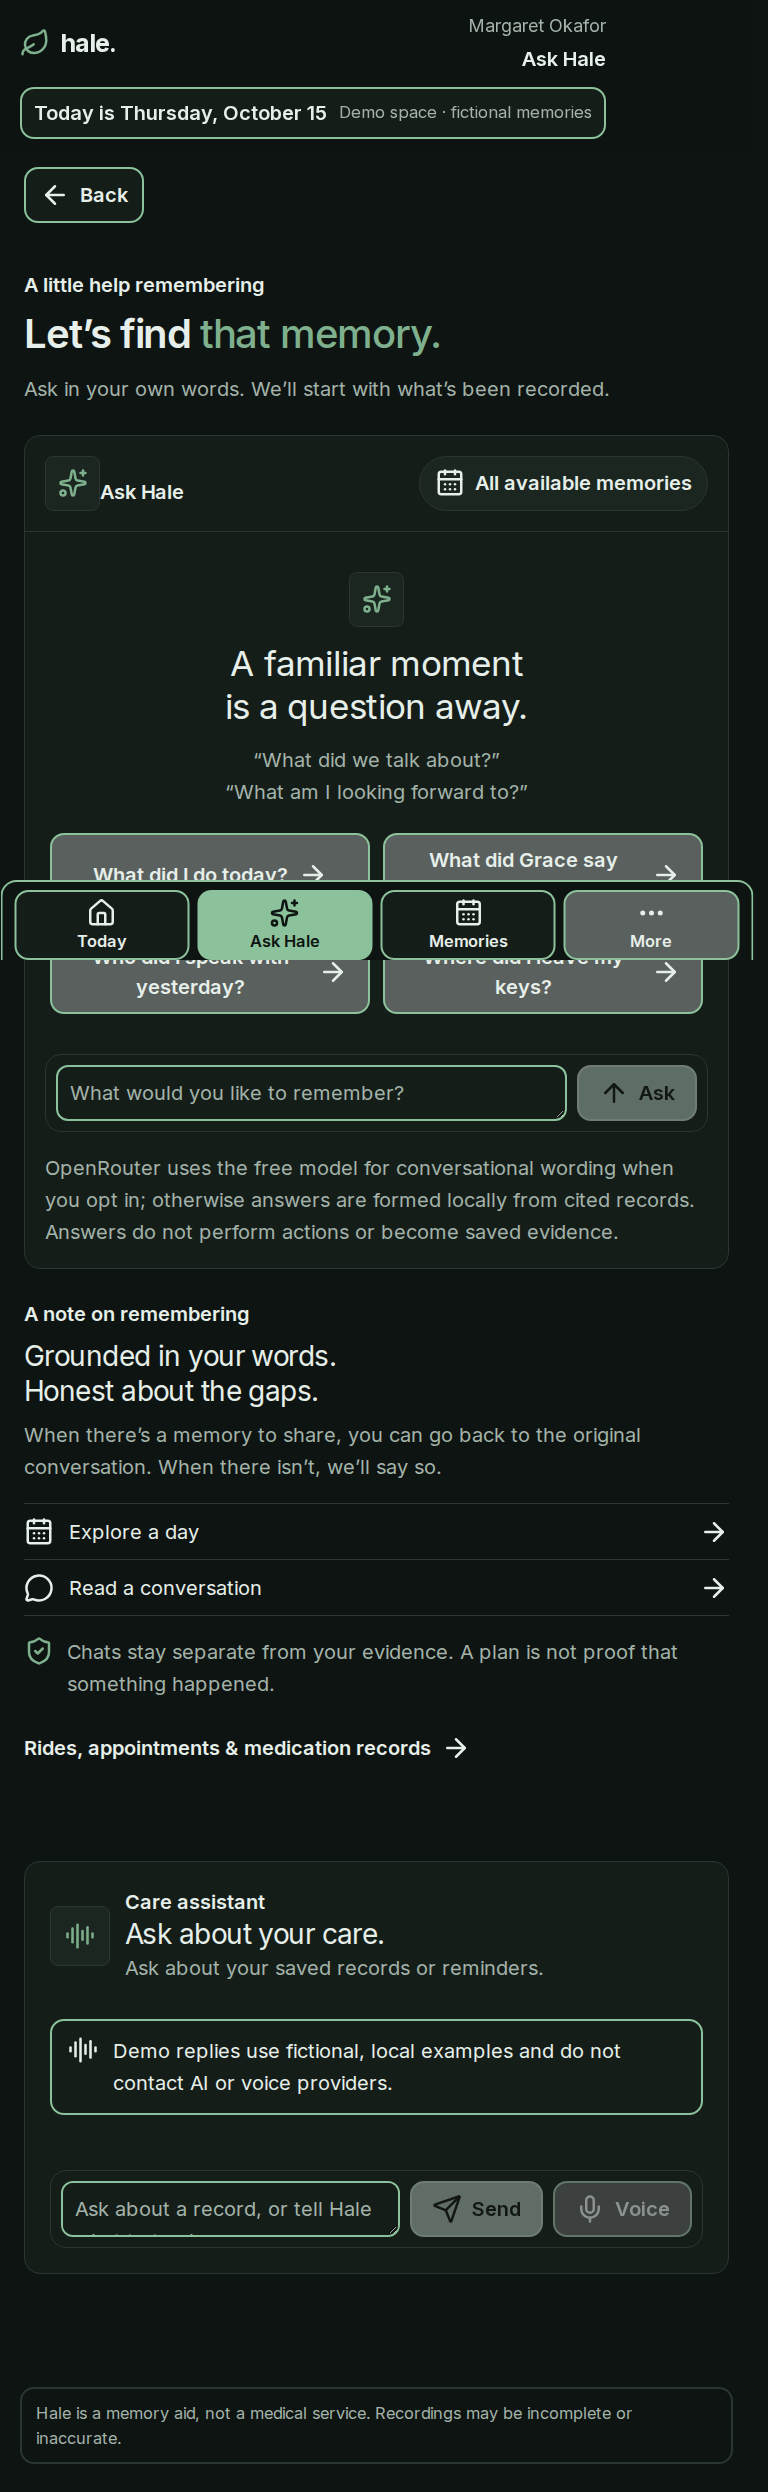
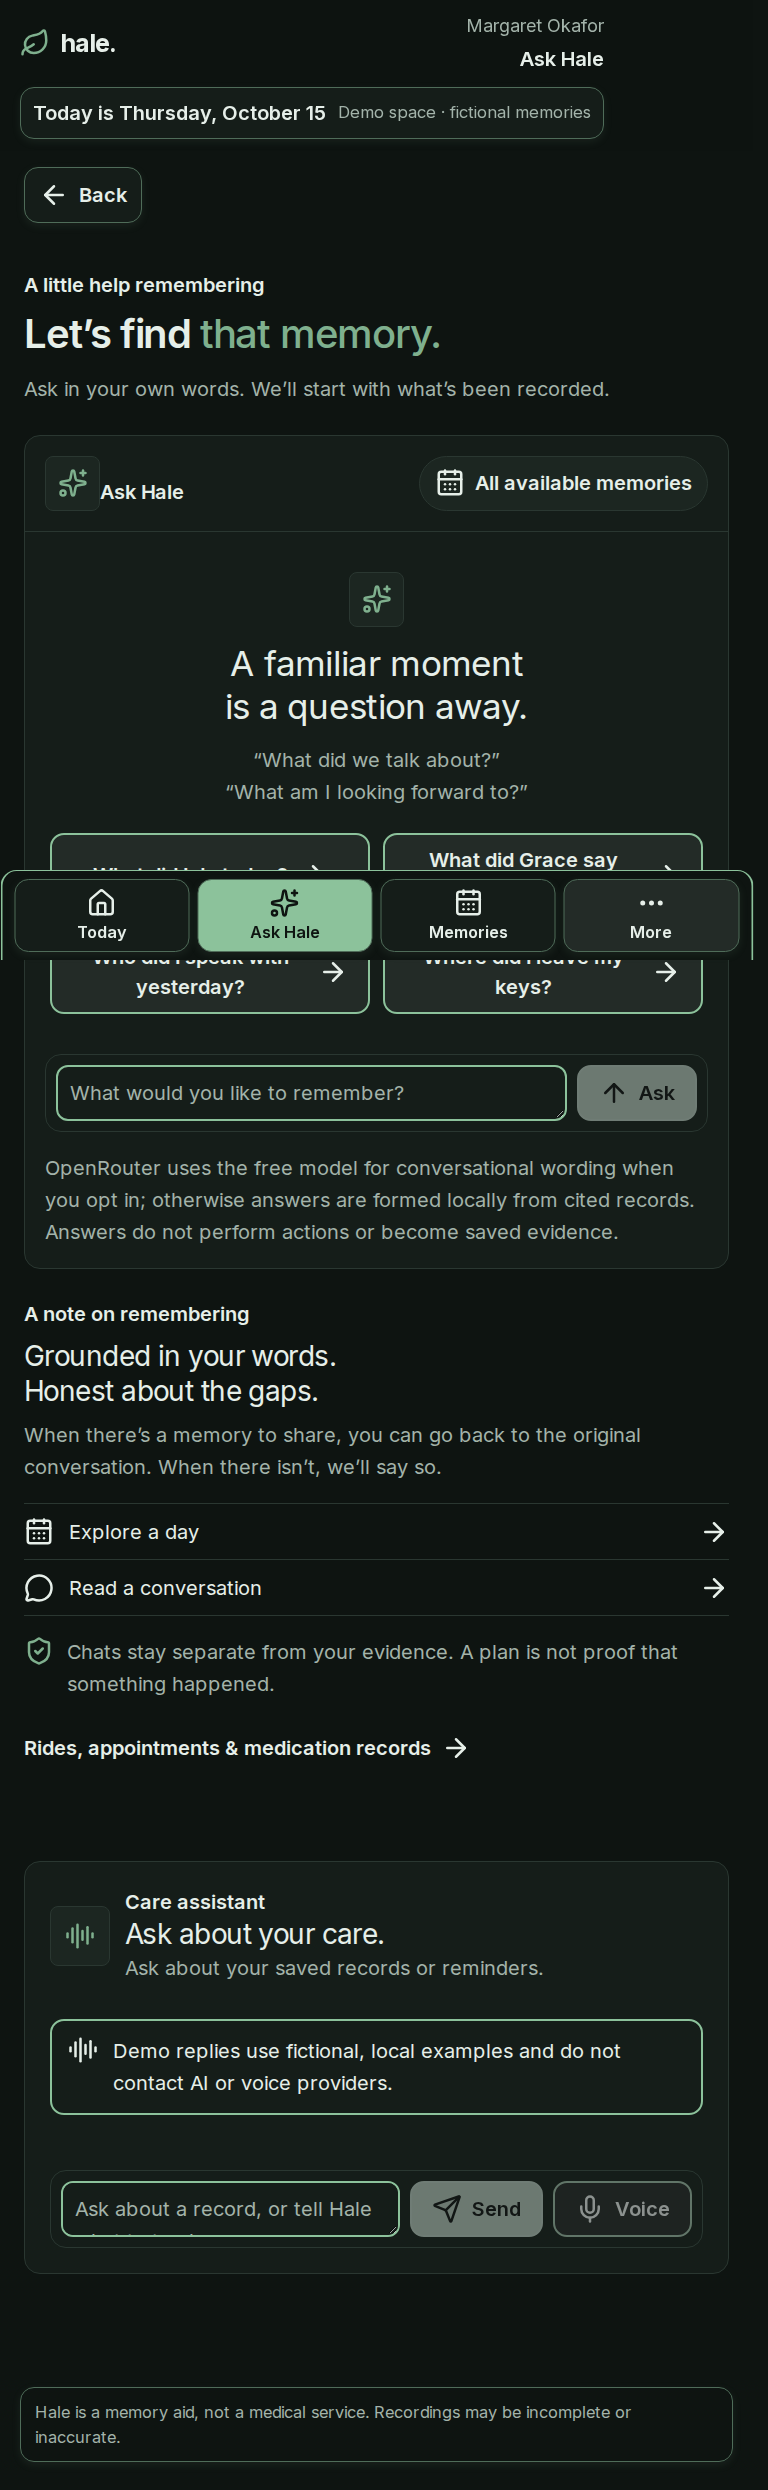
feat(ui): polish patient PWA mobile experience

diff --git a/apps/web/src/app/globals.css b/apps/web/src/app/globals.css
@@ -4348,3 +4348,241 @@ html[data-theme^="high-contrast"][data-patient-app="true"] [data-slot="toast"] {
     white-space: nowrap;
   }
 }
+
+/* Patient PWA visual polish: lighter outlines, centered navigation, and readable phone tiles. */
+.patient-app {
+  --patient-outline: color-mix(in srgb, var(--primary) 38%, var(--border));
+  --patient-soft-shadow: 0 3px 10px color-mix(in srgb, var(--primary) 9%, transparent);
+  --patient-memory-edge: color-mix(in srgb, var(--primary) 68%, var(--background));
+}
+
+.patient-app :is(
+  .patient-date-strip,
+  .patient-back-button,
+  .recorder-card,
+  .patient-box-tile,
+  .patient-memory-tile,
+  .patient-conversation-tile,
+  .patient-disclaimer,
+  .patient-display-tile,
+  .patient-bottom-nav > a,
+  .patient-bottom-nav > button,
+  .recording-actions .patient-recording-start,
+  .recording-actions .patient-recording-stop
+) {
+  border-width: 1px;
+  border-color: var(--patient-outline);
+  box-shadow: var(--patient-soft-shadow);
+}
+
+.patient-app .patient-bottom-nav {
+  align-items: stretch;
+  border-top-width: 1px;
+  padding: 8px 12px calc(8px + env(safe-area-inset-bottom));
+}
+
+.patient-app .patient-bottom-nav > a,
+.patient-app .patient-bottom-nav > button {
+  box-sizing: border-box;
+  min-height: max(64px, var(--patient-button-height));
+  align-items: center;
+  justify-content: center;
+  gap: 5px;
+  padding: 8px 4px;
+  overflow-wrap: normal;
+  text-align: center;
+}
+
+.patient-app .patient-bottom-nav > a > svg,
+.patient-app .patient-bottom-nav > button > svg {
+  display: block;
+  flex: 0 0 30px;
+  margin-inline: auto;
+}
+
+.patient-app .patient-bottom-nav > a > span,
+.patient-app .patient-bottom-nav > button > span {
+  display: block;
+  width: 100%;
+  max-width: 100%;
+  align-self: stretch;
+  overflow-wrap: normal;
+  text-align: center;
+  white-space: nowrap;
+}
+
+.patient-app .patient-header-context {
+  justify-items: end;
+  text-align: right;
+}
+
+.patient-app .patient-greeting h1 span {
+  color: var(--accent);
+  font-style: normal;
+  font-weight: 400;
+}
+
+.patient-app .patient-quick-grid {
+  gap: max(12px, var(--patient-control-gap));
+}
+
+.patient-app .patient-box-tile {
+  overflow-wrap: normal;
+}
+
+.patient-app .patient-tile-copy,
+.patient-app .patient-tile-copy strong {
+  min-width: 0;
+  overflow-wrap: normal;
+  word-break: normal;
+  hyphens: none;
+}
+
+.patient-app .patient-box-tile.patient-memories-action {
+  border: 1px solid var(--patient-outline);
+  border-bottom: 3px solid var(--patient-memory-edge);
+  background: linear-gradient(180deg, var(--surface) 0%, color-mix(in srgb, var(--surface) 91%, var(--primary)) 100%);
+  box-shadow:
+    0 2px 0 color-mix(in srgb, var(--patient-memory-edge) 70%, transparent),
+    0 6px 14px color-mix(in srgb, var(--primary) 15%, transparent),
+    inset 0 1px 0 color-mix(in srgb, white 65%, transparent);
+  transition: transform 160ms ease, box-shadow 160ms ease, background-color 160ms ease;
+}
+
+.patient-app .patient-box-tile.patient-memories-action:hover {
+  background: linear-gradient(180deg, var(--surface) 0%, color-mix(in srgb, var(--surface) 84%, var(--primary)) 100%);
+  box-shadow:
+    0 3px 0 color-mix(in srgb, var(--patient-memory-edge) 70%, transparent),
+    0 9px 18px color-mix(in srgb, var(--primary) 20%, transparent),
+    inset 0 1px 0 color-mix(in srgb, white 70%, transparent);
+  text-decoration: none;
+  transform: translateY(-2px);
+}
+
+.patient-app .patient-box-tile.patient-memories-action:active {
+  border-bottom-width: 2px;
+  box-shadow: 0 1px 0 color-mix(in srgb, var(--patient-memory-edge) 70%, transparent);
+  transform: translateY(1px);
+}
+
+.patient-app .patient-recording-explainer,
+.patient-app .recording-consent,
+.patient-app .patient-memory-source,
+.patient-app .capture-footnote {
+  border-color: var(--patient-outline);
+}
+
+.patient-app .check-label:is(.recording-consent, .ask-provider-consent, .voice-assistant-consent),
+.patient-app .medication-pdf-import .check-label {
+  display: flex;
+  min-height: max(56px, var(--patient-button-height));
+  align-items: flex-start;
+  gap: 12px;
+  border: 1px solid var(--patient-outline);
+  border-radius: 12px;
+  padding: 12px;
+  background: color-mix(in srgb, var(--surface) 72%, var(--surface-2));
+  line-height: 1.5;
+}
+
+.patient-app .check-label:is(.recording-consent, .ask-provider-consent, .voice-assistant-consent) [role="checkbox"],
+.patient-app .medication-pdf-import .check-label [role="checkbox"] {
+  flex: 0 0 32px;
+  border-width: 1px;
+}
+
+.patient-app .recording-actions .patient-recording-start,
+.patient-app .recording-actions .patient-recording-stop {
+  border-width: 1px;
+}
+
+.patient-app .patient-display-popover,
+.patient-app .patient-display-sheet,
+html[data-patient-app="true"] :is(.patient-display-popover, .patient-display-sheet) {
+  border-width: 1px;
+  border-color: var(--patient-outline);
+  box-shadow: var(--patient-soft-shadow);
+}
+
+@media (max-width: 600px) {
+  .patient-app .patient-quick-grid {
+    grid-template-columns: minmax(0, 1fr);
+  }
+
+  .patient-app .patient-box-tile {
+    grid-template-columns: 48px minmax(0, 1fr) 24px;
+    gap: 12px;
+    padding: clamp(14px, var(--patient-tile-padding), 22px);
+  }
+
+  .patient-app .patient-bottom-nav {
+    gap: 4px;
+    padding-inline: 6px;
+  }
+
+  .patient-app .patient-bottom-nav > a,
+  .patient-app .patient-bottom-nav > button {
+    font-size: clamp(14px, calc(var(--root-font-size) * .62), 16px);
+  }
+}
+
+@media (max-width: 700px) {
+  html[data-text-size="extra-large"] .patient-app .patient-quick-grid {
+    grid-template-columns: minmax(0, 1fr);
+  }
+}
+
+@media (prefers-reduced-motion: reduce) {
+  .patient-app .patient-box-tile.patient-memories-action {
+    transition: none;
+  }
+
+  .patient-app .patient-box-tile.patient-memories-action:hover,
+  .patient-app .patient-box-tile.patient-memories-action:active {
+    transform: none;
+  }
+}
+
+html[data-reduce-motion="reduce"] .patient-app .patient-box-tile.patient-memories-action:hover,
+html[data-reduce-motion="reduce"] .patient-app .patient-box-tile.patient-memories-action:active {
+  transform: none;
+}
+
+html[data-theme^="high-contrast"] .patient-app .patient-date-strip,
+html[data-theme^="high-contrast"] .patient-app .patient-back-button,
+html[data-theme^="high-contrast"] .patient-app .recorder-card,
+html[data-theme^="high-contrast"] .patient-app .patient-box-tile,
+html[data-theme^="high-contrast"] .patient-app .patient-memory-tile,
+html[data-theme^="high-contrast"] .patient-app .patient-conversation-tile,
+html[data-theme^="high-contrast"] .patient-app .patient-disclaimer,
+html[data-theme^="high-contrast"] .patient-app .patient-bottom-nav > a,
+html[data-theme^="high-contrast"] .patient-app .patient-bottom-nav > button,
+html[data-theme^="high-contrast"] .patient-app .patient-recording-start,
+html[data-theme^="high-contrast"] .patient-app .patient-recording-stop,
+html[data-theme^="high-contrast"] .patient-app .patient-display-tile,
+html[data-theme^="high-contrast"] .patient-app .check-label:is(.recording-consent, .ask-provider-consent, .voice-assistant-consent),
+html[data-theme^="high-contrast"] .patient-app .medication-pdf-import .check-label {
+  border-width: 2px;
+  border-color: var(--text);
+  box-shadow: none;
+}
+
+html[data-theme^="high-contrast"] .patient-app .patient-bottom-nav {
+  border-color: var(--text);
+}
+
+html[data-theme^="high-contrast"] .patient-app .check-label:is(.recording-consent, .ask-provider-consent, .voice-assistant-consent) [role="checkbox"],
+html[data-theme^="high-contrast"] .patient-app .medication-pdf-import .check-label [role="checkbox"] {
+  border-width: 2px;
+  border-color: var(--text);
+}
+
+html[data-theme^="high-contrast"] .patient-app .patient-box-tile.patient-memories-action {
+  background: var(--surface);
+  box-shadow: none;
+}
+
+html[data-theme^="high-contrast"] .patient-app .patient-box-tile.patient-memories-action:hover,
+html[data-theme^="high-contrast"] .patient-app .patient-box-tile.patient-memories-action:active {
+  transform: none;
+}

diff --git a/apps/web/tests/e2e/ui-redesign.spec.ts b/apps/web/tests/e2e/ui-redesign.spec.ts
@@ -255,6 +255,18 @@ test("patient Today keeps consent-gated recording first and moves the care assis
   await expect(page.getByText("Today is Thursday, October 15")).toBeVisible();
   await expect(page.getByText("Margaret Okafor").first()).toBeVisible();
   await expect(page.getByRole("heading", { name: /Good to see you, Margaret\./ })).toBeVisible();
+  await expect(page.locator(".patient-header-context > span")).toHaveText("Margaret Okafor");
+  await expect(page.locator(".patient-header-context > strong")).toHaveCount(0);
+  await expect(page.locator(".patient-greeting h1 span")).toHaveCSS("font-style", "normal");
+
+  const memoriesAction = page.locator(".patient-quick-grid .patient-memories-action");
+  await expect(memoriesAction).toHaveAttribute("href", "/patient/memories");
+  const memoriesStyle = await memoriesAction.evaluate((element) => ({
+    bottomBorder: getComputedStyle(element).borderBottomWidth,
+    shadow: getComputedStyle(element).boxShadow,
+  }));
+  expect(memoriesStyle.bottomBorder).toBe("3px");
+  expect(memoriesStyle.shadow).not.toBe("none");
 
   const consent = page.getByRole("checkbox", { name: /everyone here agrees to recording/i });
   const start = page.getByRole("button", { name: /start a conversation/i });
@@ -448,12 +460,30 @@ test("all contractual routes fit at each requested viewport/theme/text size", as
 test("Ask Hale buttons and Overview action cards remain non-overlapping at narrow widths", async ({ page }) => {
   await page.setViewportSize({ width: 360, height: 900 });
   await page.goto("/patient/today");
+  await page.waitForFunction(() => document.documentElement.dataset.textSize === "default" && document.documentElement.dataset.buttonSize === "normal");
   await page.evaluate(() => { document.documentElement.dataset.textSize = "extra-large"; });
   const patientNavLabels = await page.locator(".patient-bottom-nav > a > span, .patient-bottom-nav .patient-bottom-more > span").evaluateAll((elements) => elements.map((element) => ({ text: element.textContent, width: element.clientWidth, scrollWidth: element.scrollWidth, whiteSpace: getComputedStyle(element).whiteSpace })));
   expect(patientNavLabels.every((label) => label.scrollWidth <= label.width), JSON.stringify(patientNavLabels)).toBe(true);
   expect(patientNavLabels.every((label) => label.whiteSpace === "nowrap"), JSON.stringify(patientNavLabels)).toBe(true);
-  const quickGridColumns = await page.locator(".patient-quick-grid").evaluate((element) => getComputedStyle(element).gridTemplateColumns.split(" ").filter(Boolean).length);
-  expect(quickGridColumns).toBe(1);
+  const navCenters = await page.locator(".patient-bottom-nav > a, .patient-bottom-nav > button").evaluateAll((items) => items.map((item) => {
+    const icon = item.querySelector("svg")!.getBoundingClientRect();
+    const label = item.querySelector("span")!.getBoundingClientRect();
+    return Math.abs((icon.left + icon.width / 2) - (label.left + label.width / 2));
+  }));
+  expect(navCenters.every((delta) => delta <= 1), JSON.stringify(navCenters)).toBe(true);
+
+  const quickActions = page.locator(".patient-quick-grid");
+  for (const width of [360, 390, 430, 520, 600, 700, 701]) {
+    await page.setViewportSize({ width, height: 900 });
+    const layout = await quickActions.evaluate((element) => ({
+      columns: getComputedStyle(element).gridTemplateColumns.split(" ").filter(Boolean).length,
+      titlesFit: Array.from(element.querySelectorAll<HTMLElement>(".patient-tile-copy strong")).every((title) => title.scrollWidth <= title.clientWidth),
+    }));
+    expect(layout.columns, `${width}px quick-action columns`).toBe(width <= 700 ? 1 : 2);
+    expect(layout.titlesFit, `${width}px quick-action title overflow`).toBe(true);
+  }
+
+  await page.goto("/patient/ask");
   const sendGroup = page.locator(".voice-assistant-form");
   const controls = await sendGroup.locator("textarea, button").evaluateAll((elements) => elements.map((element) => {
     const box = element.getBoundingClientRect();

diff --git a/apps/web/src/components/patient-today.tsx b/apps/web/src/components/patient-today.tsx
@@ -20,7 +20,7 @@ export function PatientToday() {
 
   return <div className="patient-today-screen">
     <header className="patient-greeting">
-      <h1>Good to see you, <em>{space.name.split(" ")[0]}.</em></h1>
+      <h1>Good to see you, <span>{space.name.split(" ")[0]}.</span></h1>
       <p>Your day, a little easier to come back to.</p>
     </header>
 
@@ -28,7 +28,7 @@ export function PatientToday() {
 
     <section className="patient-quick-grid" aria-label="Quick actions">
       <PatientTileLink href="/patient/ask" icon={<Sparkles />} title="Ask about your care" />
-      <PatientTileLink href="/patient/memories" icon={<CalendarDays />} title="Memories" />
+      <PatientTileLink href="/patient/memories" icon={<CalendarDays />} title="Memories" className="patient-memories-action" />
       <PatientTileLink href="#recent-conversations" icon={<MessageCircle />} title="Conversations" />
       <PatientTileLink
         className="patient-care-grid-tile"

diff --git a/apps/web/src/components/patient-shell.tsx b/apps/web/src/components/patient-shell.tsx
@@ -107,7 +107,7 @@ function PatientFrame({ children }: { children: React.ReactNode }) {
     <header className="patient-header">
       <div className="patient-header-top">
         <Link className="wordmark" href="/patient/today"><Leaf aria-hidden size={24} />hale.</Link>
-        <div className="patient-header-context"><span>{space.name}</span><strong>{moreOpen ? "More" : pageTitle}</strong></div>
+        <div className="patient-header-context"><span>{space.name}</span>{(!isToday || moreOpen) && <strong>{moreOpen ? "More" : pageTitle}</strong>}</div>
       </div>
       <div className="patient-date-strip"><strong>Today is {dateLabel(today, { weekday: "long", month: "long", day: "numeric" })}</strong>{mode === "demo" && <span>Demo space · fictional memories</span>}</div>
     </header>

diff --git a/plan.md b/plan.md
@@ -115,3 +115,25 @@ No model-generated or inferred amount may be sent to Nessie. Backboard is not us
 - Place invite management in the existing family People/Settings experience and add a focused acceptance route.
 - Verify that signup without acceptance grants no patient access, an email mismatch is rejected, an expired/revoked token is rejected, and members can only access the invited patient with the issued capabilities.
 - Test invite acceptance and membership creation transactionally, including concurrent acceptance attempts and an audit event.
+
+## Patient PWA UI Polish
+
+### Scope
+
+- Refine the patient PWA only; do not restyle or change the family dashboard.
+- Keep routes, layout structure, recording, consent, provider selection, data flows, and authentication behavior unchanged.
+
+### Changes
+
+1. Reduce the patient PWA’s heavy borders to finer, softer green outlines and subtler shadows, including high-contrast-safe treatments.
+2. Give the Today screen’s **Memories** quick-action tile a restrained tactile finish: pastel green/white surface, dark-green lower edge, soft green shadow, a small top highlight, hover lift, and pressed state. Keep its size and navigation behavior.
+3. Simplify the patient header context: align the patient name at the right, remove the redundant “Today” beneath the name on Today, and use the existing roman editorial serif styling for the greeting name.
+4. Center each bottom-navigation icon and label consistently within its existing hit target.
+5. Make the four Today quick-action tiles readable on phone widths without clipping or splitting words; retain existing navigation and content.
+6. Visually group patient consent controls so they read as deliberate, accessible choices rather than stray checkboxes. Keep the recording and provider-consent gates and their behavior intact.
+
+### Verification
+
+- Run the patient Playwright tests at narrow phone widths and confirm the consent controls still gate their actions.
+- Run the repository checks and production build.
+- Review a phone-width patient Today screenshot and confirm family pages remain unchanged.
